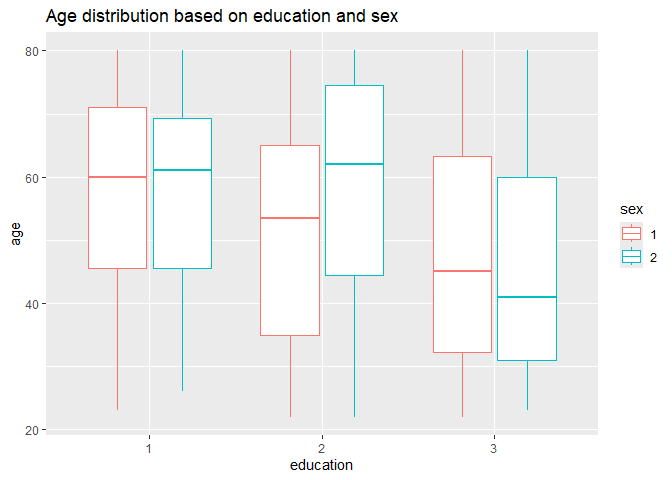
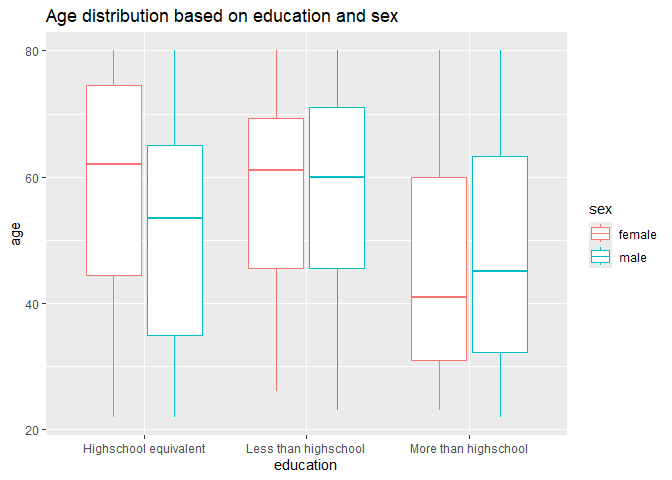
Still working on problem 2

diff --git a/hw3_tpd2121.md b/hw3_tpd2121.md
@@ -23,7 +23,9 @@ library(tidyverse)
 library(ggridges)
 ```
 
-\##Problem 2 Loading the dataset
+## Problem 2
+
+Loading the dataset
 
 ``` r
 demography = read.csv("./nhanes_covar.csv", 
@@ -50,12 +52,18 @@ complete_acc =
   full_join(demography, acc_data, by = "SEQN") %>% 
   filter(age >21) %>% 
   mutate(
-    SEQN = as.numeric(SEQN),
-    sex = as.factor(sex),
-    age = as.numeric(age),
-    BMI = as.double(BMI),
-    education = as.factor(education)
-    #mutate as.dbl for the min1:min94
+    sex = as.character(sex),
+    sex = case_match(
+      sex,
+      "1" ~ "male",
+      "2" ~ "female"), 
+    education = as.character(education),
+    education = case_match(
+      education,
+      "1" ~ "Less than highschool",
+      "2" ~ "Highschool equivalent",
+      "3" ~ "More than highschool"
+    )
   )
 ```
 
@@ -72,13 +80,12 @@ complete_acc %>%
     ## `summarise()` has grouped output by 'sex'. You can override using the `.groups`
     ## argument.
 
-| sex |   1 |   2 |   3 |
-|:----|----:|----:|----:|
-| 1   |  27 |  34 |  54 |
-| 2   |  28 |  23 |  59 |
+| sex    | Highschool equivalent | Less than highschool | More than highschool |
+|:-------|----------------------:|---------------------:|---------------------:|
+| female |                    23 |                   28 |                   59 |
+| male   |                    34 |                   27 |                   54 |
 
 ``` r
-#confused on how to present the data
 complete_acc %>% 
   group_by(sex, education, age) %>% 
   ggplot(aes(x = education, y = age, color = sex)) + 
@@ -89,8 +96,51 @@ complete_acc %>%
 
 ![](hw3_tpd2121_files/figure-gfm/visualization-1.png)<!-- -->
 
-Total activity over the day
+**Total activity over the day**
 
-3 panel plot
+``` r
+total_df = 
+  complete_acc %>% 
+  mutate(
+    act_total = rowSums(across(c(min1:min1440)))
+    )%>% 
+  select(SEQN:education, act_total)
+```
+
+``` r
+ggplot(total_df, aes(x = age, y = act_total, color = sex)) + 
+  geom_point(alpha = .5) +
+  geom_smooth(se = FALSE) + 
+  facet_grid(. ~ education) + 
+  theme_bw() +
+  labs(
+    title = "Total physical activity based on age, education, and sex",
+    y = "Total physical activity per day")
+```
+
+    ## `geom_smooth()` using method = 'loess' and formula = 'y ~ x'
+
+![](hw3_tpd2121_files/figure-gfm/total_plot-1.png)<!-- -->
+
+``` r
+#do facet_grid (sex ~ education) if want to make 6 panel
+```
+
+Based on the plot, we can see that there is a difference in the total
+activity based on age, education, and sex. For people who had education
+lower than highschool equivalent, the highest total activity per day is
+recorded at 30-50 years old group and decline afterwards. Female are
+shown to have higher activies per day compared to male in this group.
+People who have highschool equivalent education generally show
+decreasing trend of physical activity as they got older. This decline is
+more pronounced in female compared to male participants. There’s a jump
+in activities recorded around 50 to 60 years of age, before declining
+again. Lastly, in the people with higher than highschool education,
+female participants’ have plateauing activities until age 60 before
+declining. In male participants, there’s a slight dip from around age
+20s to 40s, before slightly jumping up and declining again at around age
+50.
+
+**3 panel plot**
 
 \##Problem 3
